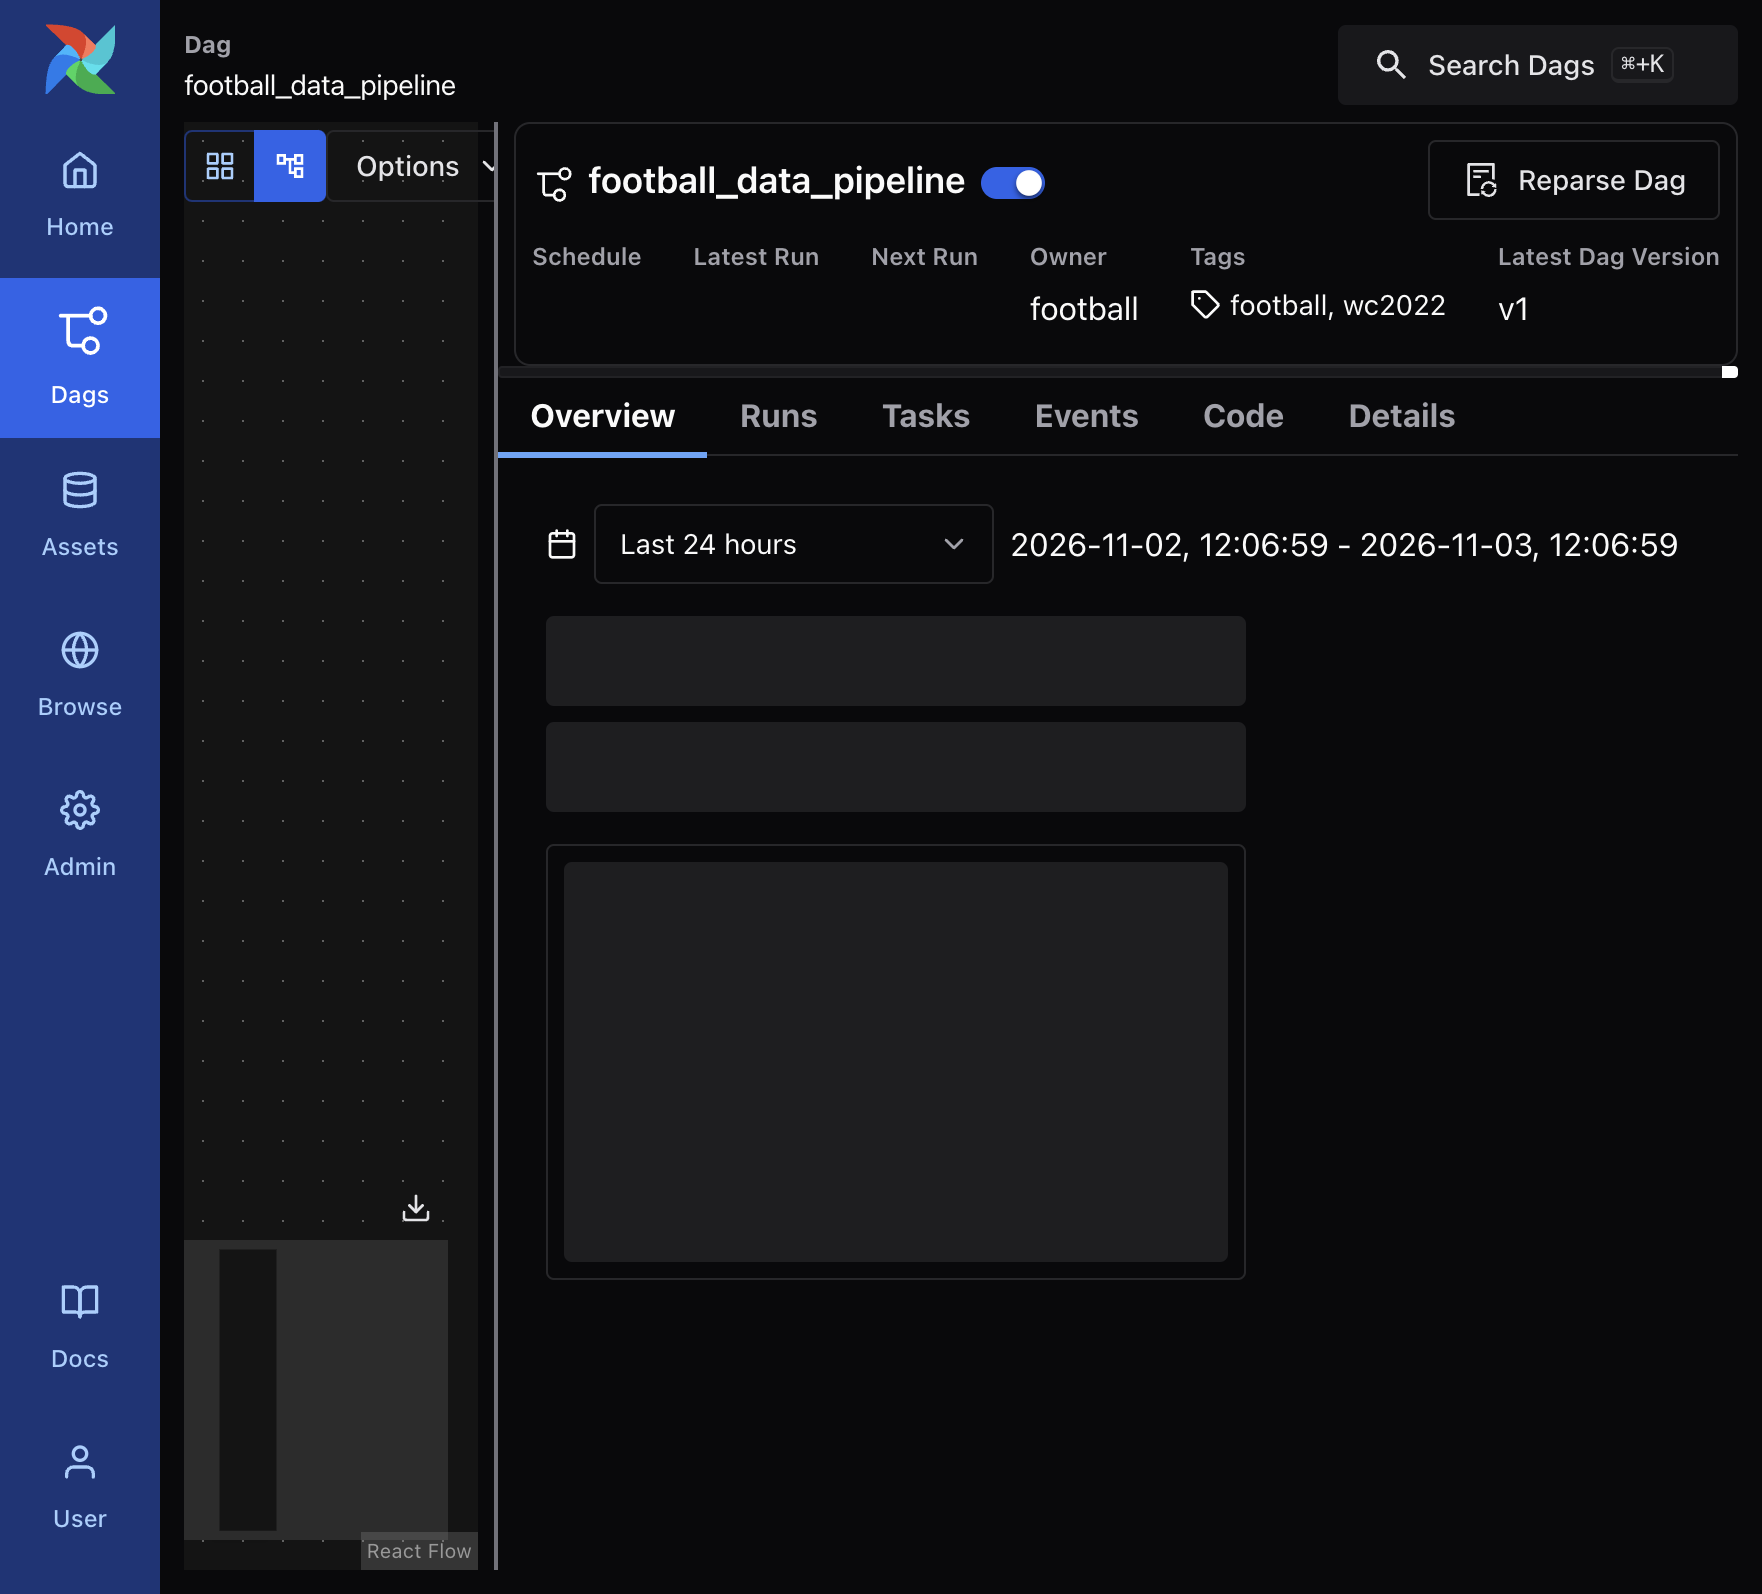
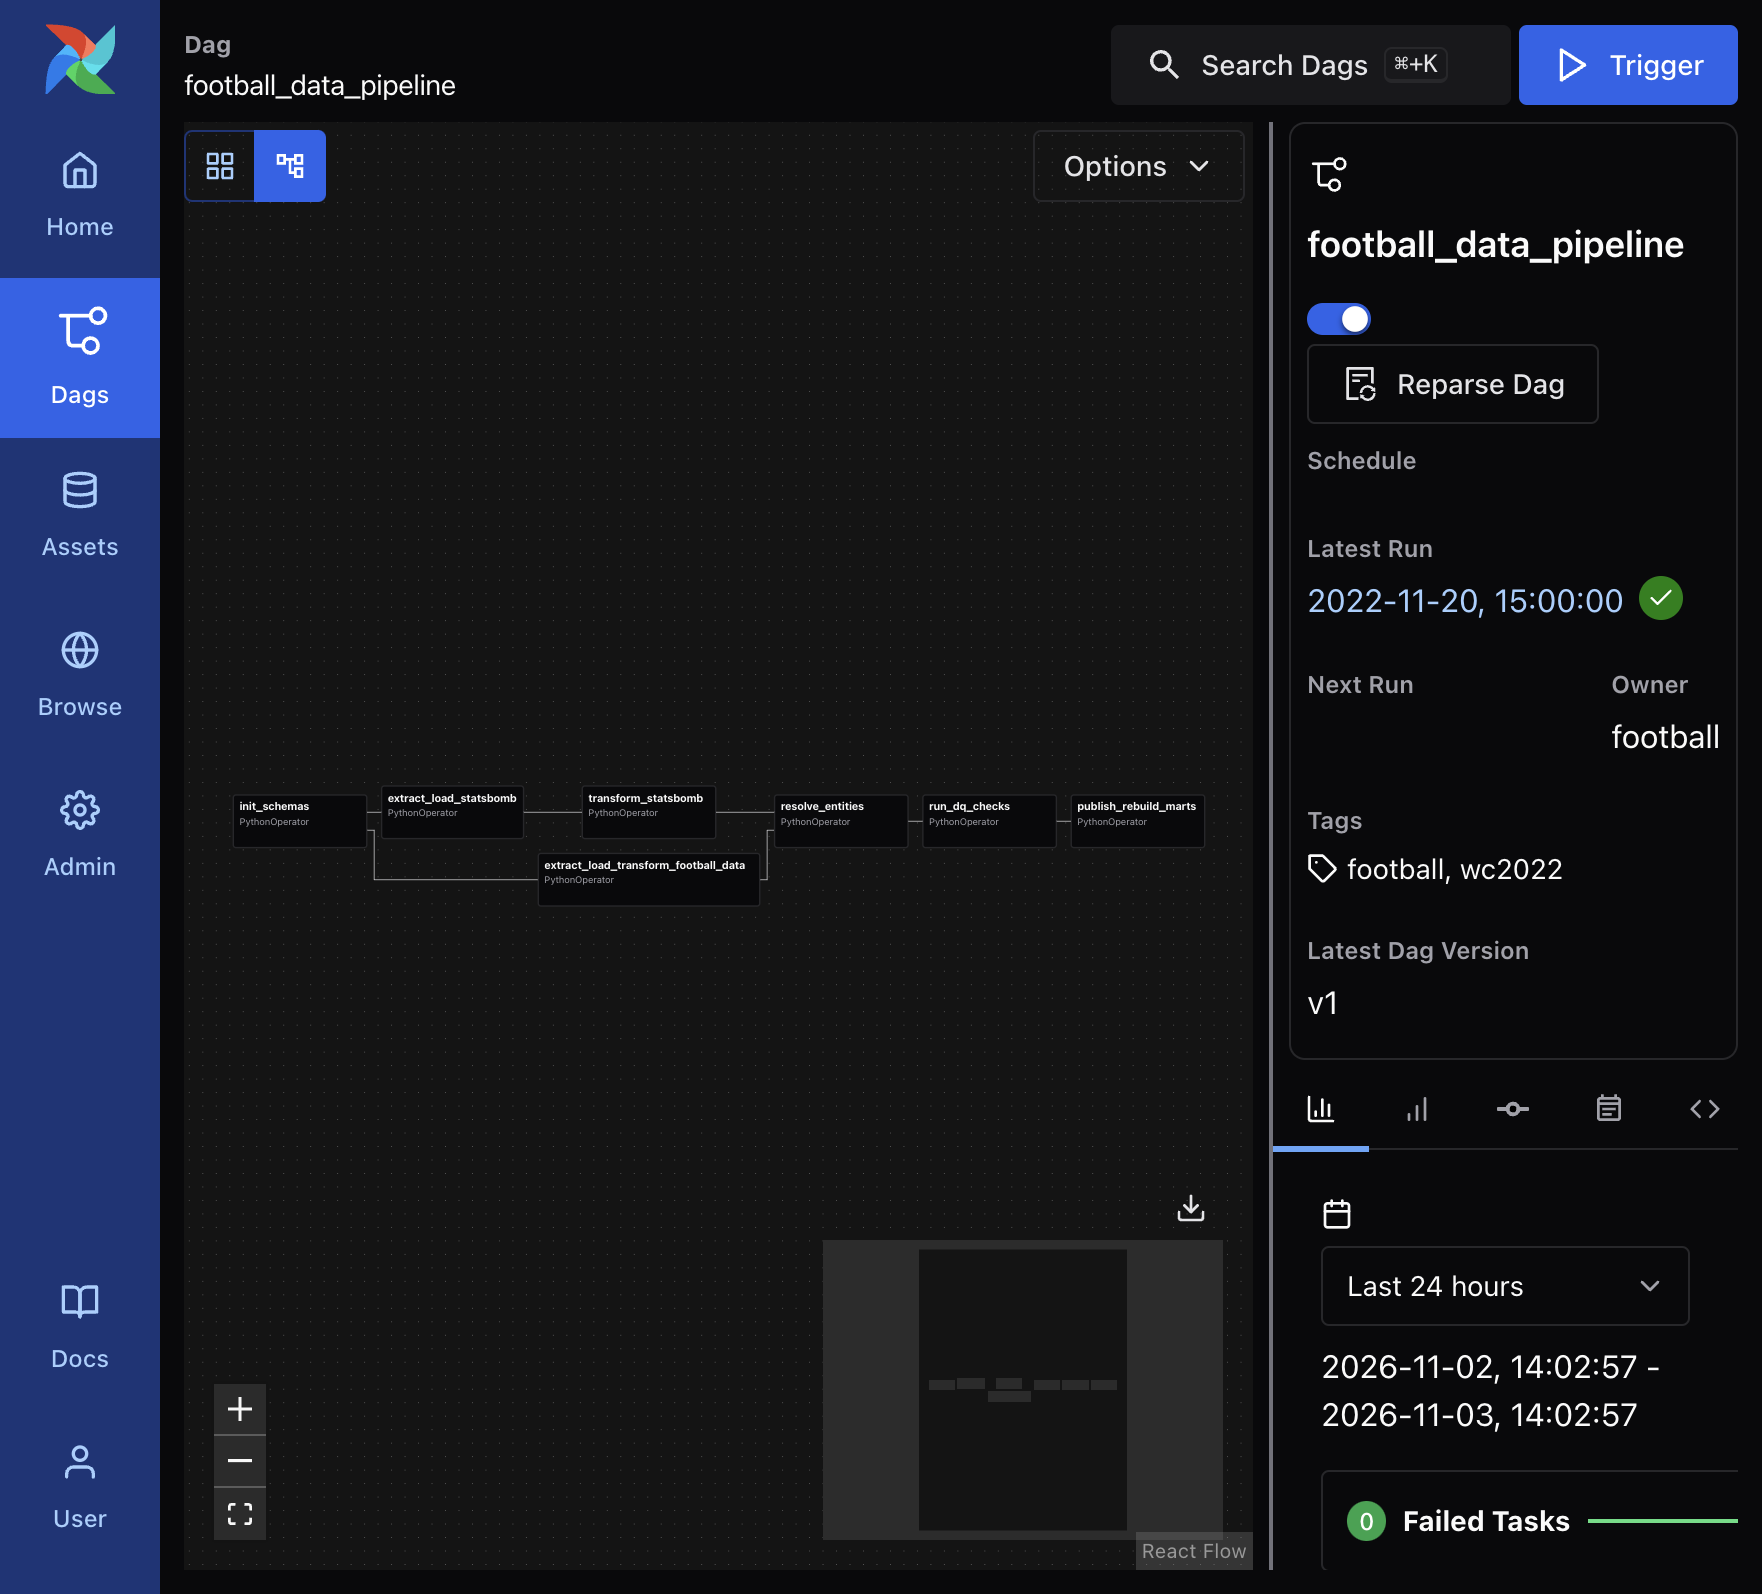
Add progressive-pass validation notebook and refresh Airflow docs screenshots.
Closes the MVP metric-definition gap with A/B/C comparison coverage and embeds a live DAG graph in the README.

diff --git a/tests/test_progressive_definitions.py b/tests/test_progressive_definitions.py
@@ -1,0 +1,51 @@
+"""Compare progressive-pass definitions A / B / C (docs/metrics.md)."""
+
+from __future__ import annotations
+
+from src.db import connect
+
+
+SQL = """
+WITH base AS (
+    SELECT
+        e.canonical_match_id AS match_id,
+        e.canonical_team_id AS team_id,
+        e.canonical_player_id AS player_id,
+        SQRT(POWER(120 - e.x, 2) + POWER(40 - e.y, 2)) AS distance_before,
+        SQRT(POWER(120 - e.end_x, 2) + POWER(40 - e.end_y, 2)) AS distance_after,
+        CASE
+            WHEN SQRT(POWER(120 - e.x, 2) + POWER(40 - e.y, 2)) = 0 THEN NULL
+            ELSE (
+                SQRT(POWER(120 - e.x, 2) + POWER(40 - e.y, 2))
+                - SQRT(POWER(120 - e.end_x, 2) + POWER(40 - e.end_y, 2))
+            ) / SQRT(POWER(120 - e.x, 2) + POWER(40 - e.y, 2))
+        END AS progression,
+        SQRT(POWER(120 - e.x, 2) + POWER(40 - e.y, 2))
+            - SQRT(POWER(120 - e.end_x, 2) + POWER(40 - e.end_y, 2)) AS absolute_reduction
+    FROM core.events e
+    JOIN monitoring.match_publication_status mps
+      ON mps.canonical_match_id = e.canonical_match_id
+     AND mps.publication_status = 'PUBLISHABLE'
+    WHERE e.event_type = 'Pass'
+      AND e.x IS NOT NULL AND e.y IS NOT NULL
+      AND e.end_x IS NOT NULL AND e.end_y IS NOT NULL
+)
+SELECT
+    COUNT(*) FILTER (WHERE progression >= 0.20) AS n_a,
+    COUNT(*) FILTER (WHERE progression >= 0.25) AS n_b,
+    COUNT(*) FILTER (
+        WHERE progression >= 0.25 AND absolute_reduction >= 10
+    ) AS n_c,
+    (SELECT COUNT(*) FROM marts.progressive_passes) AS n_marts
+FROM base
+"""
+
+
+def test_definitions_nested_and_marts_use_b():
+    with connect() as conn:
+        with conn.cursor() as cur:
+            cur.execute(SQL)
+            n_a, n_b, n_c, n_marts = cur.fetchone()
+
+    assert n_a >= n_b >= n_c > 0
+    assert n_marts == n_b

diff --git a/docs/metrics.md b/docs/metrics.md
@@ -219,11 +219,9 @@ C: progression >= 0.25 AND absolute_reduction >= 10 yards
 
 ### 4.2. Определение витрины
 
-До завершения эксперимента витрина `marts.progressive_passes` использует **определение B**.
+После `notebooks/metric_validation.ipynb` витрина `marts.progressive_passes` остаётся на **определении B**.
 
-Определение C с порогом 10 ярдов остаётся кандидатом. После эксперимента выбранное определение и итоговое значение абсолютного порога переносятся в этот раздел, а витрина переключается на него.
-
-Варианты A и C не удаляются из ноутбука и теста сравнения.
+Определение C с порогом 10 ярдов остаётся кандидатом (меньше шума у ворот, но заметно реже). A и C не удаляются из ноутбука и `tests/test_progressive_definitions.py`.
 
 ### 4.3. Поля витрины
 

diff --git a/README.md b/README.md
@@ -34,12 +34,15 @@ Airflow 3.0.2 LocalExecutor (`football_data_pipeline`) wrapping the same CLI. UI
 
 ![Airflow UI](docs/airflow_ui.png)
 
+![Airflow DAG](docs/airflow_dag.png)
+
 ### Phase 6
 
 Delivery / presentation (no Superset — outside MVP):
 
 - three mplsoccer maps for the final
 - architecture + data-model diagrams
+- progressive-pass definition notebook (`notebooks/metric_validation.ipynb`)
 - README visualizations
 
 ![Data model](docs/data_model.png)
